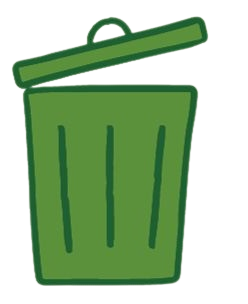
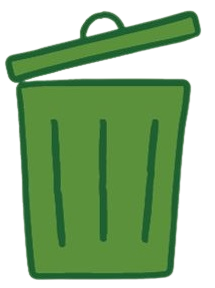
juego

diff --git a/Frontend/assets/js/juegotacho.js b/Frontend/assets/js/juegotacho.js
@@ -35,17 +35,22 @@ function preload(){
     this.load.image('colores', './Juegos/PNG/Environment/grass2.png');
     this.load.image('tacho','./Juegos/PNG/Environment/grass1.png');
     this.load.image('gameover', './Juegos/PNG/Environment/bg_layer3.png');
+    //tachos de basura
     this.load.image('tachoverde', './Juegos/PNG/Environment/tachoverde.png');
     this.load.image('tachorojo', './Juegos/PNG/Environment/tachorojo.png');
+    this.load.image('tachomarron', './Juegos/PNG/Environment/tachomarron.png');
+    this.load.image('tachonegro', './Juegos/PNG/Environment/tachonegro.png');
     this.load.image('tachoamarillo', './Juegos/PNG/Environment/tachoamarillo.png');
     this.load.image('tachonaranja', './Juegos/PNG/Environment/tachonaranja.png');
     this.load.image('tachoazul', './Juegos/PNG/Environment/tachoazul.png');
+    this.load.image('basetacho', './Juegos/PNG/Environment/basetacho.jpg');
+    //colores de tachos
     this.load.image('puntoazul', './Juegos/PNG/Environment/puntoazul.png');
-    this.load.image('puntonegro2', './Juegos/PNG/Environment/puntoamarillo.png');
+    this.load.image('puntoamarillo', './Juegos/PNG/Environment/puntoamarillo.png');
+    this.load.image('puntomarron', './Juegos/PNG/Environment/puntomarron.png');
     this.load.image('puntonegro', './Juegos/PNG/Environment/puntonegro.png');
     this.load.image('puntorojo', './Juegos/PNG/Environment/puntorojo.png');
     this.load.image('puntoverde', './Juegos/PNG/Environment/puntoverde.png');
-    this.load.image('basetacho', './Juegos/PNG/Environment/basetacho.jpg');
 }
 
 //2nd - the loaded content is set on the game scene.
@@ -58,14 +63,13 @@ function create(){
     this.add.image(240, 320,'background'); //BACKGROUND img loaded to scene
 
     //colors img loaded to scene by using '.add'
-    const green2= this.add.image(300,550, 'puntoverde').setScale(0.5); 
-    const green= this.add.image(350,550, 'puntoverde').setScale(0.5);
-    const black= this.add.image(400,550, 'puntonegro').setScale(0.5);
-    const black2= this.add.image(450,550, 'puntonegro2').setScale(0.5);
+    const black= this.add.image(300,550, 'puntonegro').setScale(0.5);
+    const brown= this.add.image(350,550, 'puntomarron').setScale(0.5); 
+    const green= this.add.image(400,550, 'puntoverde').setScale(0.5);
+    const yellow= this.add.image(450,550, 'puntoamarillo').setScale(0.5);
     const blue= this.add.image(500,550, 'puntoazul').setScale(0.5);
     const red= this.add.image(550,550, 'puntorojo').setScale(0.5);
 
-    
     //1 trashbin loaded to scene, add .physics so users can interact with the character using the keyboard.
     red.setInteractive({ useHandCursor:true }); //cambia el cursor al estar encima del color
     red.on("pointerup", ()=>{ //evento
@@ -96,7 +100,7 @@ function create(){
             this.tacho.destroy();
         }
         this.basetacho = this.physics.add.sprite(240, 490, 'basetacho').setImmovable();
-        this.tacho = this.physics.add.sprite(250, 450, 'tachoamarillo').setScale(0.5);
+        this.tacho = this.physics.add.sprite(250, 450, 'tachonegro').setScale(0.5);
     })
     blue.setInteractive({ useHandCursor:true });
     blue.on("pointerup", ()=>{
@@ -107,8 +111,17 @@ function create(){
         this.basetacho = this.physics.add.sprite(240, 490, 'basetacho').setImmovable();
         this.tacho = this.physics.add.sprite(250, 450, 'tachoazul').setScale(0.5);
     })
-    black2.setInteractive({ useHandCursor:true });
-    black2.on("pointerup", ()=>{
+    brown.setInteractive({ useHandCursor:true });
+    brown.on("pointerup", ()=>{
+        if (this.basetacho && this.tacho) {
+            this.basetacho.destroy();
+            this.tacho.destroy();
+        }
+        this.basetacho = this.physics.add.sprite(240, 490, 'basetacho').setImmovable();
+        this.tacho = this.physics.add.sprite(250, 450, 'tachomarron').setScale(0.5);
+    })
+    yellow.setInteractive({ useHandCursor:true });
+    yellow.on("pointerup", ()=>{
         if (this.basetacho && this.tacho) {
             this.basetacho.destroy();
             this.tacho.destroy();
@@ -116,50 +129,39 @@ function create(){
         this.basetacho = this.physics.add.sprite(240, 490, 'basetacho').setImmovable();
         this.tacho = this.physics.add.sprite(250, 450, 'tachoamarillo').setScale(0.5);
     })
-    green2.setInteractive({ useHandCursor:true });
-    green2.on("pointerup", ()=>{
-        if (this.basetacho && this.tacho) {
-            this.basetacho.destroy();
-            this.tacho.destroy();
-        }
-        this.basetacho = this.physics.add.sprite(240, 490, 'basetacho').setImmovable();
-        this.tacho = this.physics.add.sprite(250, 450, 'tachonaranja').setScale(0.5);
-    })
 
     //add '.physics' to the platform so the trash can be affected by gravity.
-    this.platform= this.physics.add.image(240,-1,'platform').setGravityY(300)//add gravity so the trash falls down.
+    /*this.platform= this.physics.add.image(240,-1,'platform').setGravityY(300)//add gravity so the trash falls down.
         .setScale(0.5);//reduce platform image half the size.
     this.platform2 = this.physics.add.image(500,-1,'platform').setGravityY(300)//add gravity so the trash falls down.
         .setScale(0.5);
-    
+    */
+
+    //add '.physics' to the platform so the trash can be affected by gravity.
+    // Creamos y configuramos los objetos que caen
+    for (let i = 0; i < 5; i++) {
+        const randomX = Phaser.Math.Between(100, 800); // Posición aleatoria en el eje X
+        this.platform= this.physics.add.image(randomX,-1,'platform').setGravityY(300).setScale(0.5);// Ajusta el nombre del objeto que desees usar
+        const randomSpeedY = Phaser.Math.Between(100, 300); // Velocidad vertical aleatoria
+        this.platform.setVelocity(0, randomSpeedY);
+    }
+
     this.add.text(50, 2, "Monedas ganadas", {
         fontSize:"24",
         fill: "black",
     });
-    /*
-    this.gameoverimg = this.add.image(240, 320, 'gameover');
-    this.gameoverimg.visible=false;*/
 
-    this.basetacho = this.physics.add.sprite(240, 490, 'basetacho').setImmovable();
+    this.basetacho = this.physics.add.sprite(250, 490, 'basetacho').setImmovable();
     this.tacho = this.physics.add.sprite(250, 450, 'tachoverde').setScale(0.5);
 
     //access to user´s keyboard
     this.cursors = this.input.keyboard.createCursorKeys();
 
     this.physics.add.collider(this.platform, this.basetacho);
-    this.physics.add.collider(this.platform2, this.basetacho);
 }
 
 function update(){ //loop
-
-    /* fin del juego 
-    if(this.platform.y>100){
-        this.gameoverimg.visible=true;
-        this.scene.pause();
-    }*/
-
     this.tacho.setVelocity(0) && this.basetacho.setVelocity(0);
-
     if (this.cursors.left.isDown)
     {
         this.tacho.setVelocityX(-300) && this.basetacho.setVelocityX(-300);
@@ -168,6 +170,5 @@ function update(){ //loop
     {
         this.tacho.setVelocityX(300) && this.basetacho.setVelocityX(300);
     };
-    
-
 }
+

diff --git a/Frontend/assets/js/index.js b/Frontend/assets/js/index.js
@@ -1,5 +1,155 @@
-import { GameOver } from "./gameover.js";
+//Declaro e inicializo la variable
+const config = {
+    //height and width of the game
+    width: 900,
+    height: 600,
+    //let Phaser decide to use Canvas or WebGl to render the game depending on the browser and the device.
+    type: Phaser.AUTO,
 
-const config ={
-    scene: [GameOver]
+    //creating a game scene
+    scene:{
+        //let us specify multimedia content to be loaded before starting the scene
+        preload: preload,
+        //is called once the assets from the scene have been loaded.
+        create: create,
+        update: update
+    },
+
+    //adding physics
+    physics:{
+        default:'arcade',
+        arcade: {
+            debug: true
+        }   
+    }
+}
+
+let game = new Phaser.Game(config);
+
+//1st - Load images, audio, videos so they can be used.
+function preload(){
+    //load background img
+    this.load.image('background','./Juegos/PNG/Background/bg_layer1.png');
+    //load platform img
+    this.load.image('platform', './Juegos/PNG/Environment/cactus.png');
+    this.load.image('colores', './Juegos/PNG/Environment/grass2.png');
+    this.load.image('tacho','./Juegos/PNG/Environment/grass1.png');
+    this.load.image('gameover', './Juegos/PNG/Environment/bg_layer3.png');
+    this.load.image('tachoverde', './Juegos/PNG/Environment/tachoverde.png');
+    this.load.image('tachorojo', './Juegos/PNG/Environment/tachorojo.png');
+    this.load.image('tachoamarillo', './Juegos/PNG/Environment/tachoamarillo.png');
+    this.load.image('tachonaranja', './Juegos/PNG/Environment/tachonaranja.png');
+    this.load.image('tachoazul', './Juegos/PNG/Environment/tachoazul.png');
+    this.load.image('puntoazul', './Juegos/PNG/Environment/puntoazul.png');
+    this.load.image('puntonegro2', './Juegos/PNG/Environment/puntoamarillo.png');
+    this.load.image('puntonegro', './Juegos/PNG/Environment/puntonegro.png');
+    this.load.image('puntorojo', './Juegos/PNG/Environment/puntorojo.png');
+    this.load.image('puntoverde', './Juegos/PNG/Environment/puntoverde.png');
+    this.load.image('basetacho', './Juegos/PNG/Environment/basetacho.jpg');
+}
+
+//2nd - the loaded content is set on the game scene.
+function create(){ 
+    
+    // x and y position, and key in preload()
+    this.add.image(240, 320,'background'); //BACKGROUND img loaded to scene
+
+    //colors img loaded to scene by using '.add'
+    const green2= this.add.image(300,550, 'puntoverde').setScale(0.5); 
+    const green= this.add.image(350,550, 'puntoverde').setScale(0.5);
+    const black= this.add.image(400,550, 'puntonegro').setScale(0.5);
+    const black2= this.add.image(450,550, 'puntonegro2').setScale(0.5);
+    const blue= this.add.image(500,550, 'puntoazul').setScale(0.5);
+    const red= this.add.image(550,550, 'puntorojo').setScale(0.5);
+
+    botonCoins.setInteractive({ useHandCursor: true });
+    
+    //1 trash can loaded to scene, add .physics so users can interact with the character using the keyboard.
+    red.setInteractive({ useHandCursor:true }); //cambia el cursor al estar encima del color
+    red.on("pointerup", ()=>{ //evento
+        // Verifica si ya existe un basurero en la escena y lo destruye.
+        if (this.basetacho && this.tacho) {
+            this.basetacho.destroy();
+            this.tacho.destroy();
+        }
+        //crea un nuevo basurero correspondiente al color seleccionado.
+        this.basetacho = this.physics.add.sprite(240, 490, 'basetacho').setImmovable();
+        this.tacho = this.physics.add.sprite(250, 450, 'tachorojo').setScale(0.5);
+        
+    });
+    green.setInteractive({ useHandCursor:true });
+    green.on("pointerup", ()=>{
+        // Verifica si ya existe un basurero en la escena y, en ese caso, destrúyelo.
+        if (this.basetacho && this.tacho) {
+            this.basetacho.destroy();
+            this.tacho.destroy();
+        }
+        this.basetacho = this.physics.add.sprite(240, 490, 'basetacho').setImmovable();
+        this.tacho = this.physics.add.sprite(250, 450, 'tachoverde').setScale(0.5);
+    });
+    black.setInteractive({ useHandCursor:true });
+    black.on("pointerup", ()=>{
+        if (this.basetacho && this.tacho) {
+            this.basetacho.destroy();
+            this.tacho.destroy();
+        }
+        this.basetacho = this.physics.add.sprite(240, 490, 'basetacho').setImmovable();
+        this.tacho = this.physics.add.sprite(250, 450, 'tachoamarillo').setScale(0.5);
+    });
+    blue.setInteractive({ useHandCursor:true });
+    blue.on("pointerup", ()=>{
+        if (this.basetacho && this.tacho) {
+            this.basetacho.destroy();
+            this.tacho.destroy();
+        }
+        this.basetacho = this.physics.add.sprite(240, 490, 'basetacho').setImmovable();
+        this.tacho = this.physics.add.sprite(250, 450, 'tachoazul').setScale(0.5);
+    });
+    black2.setInteractive({ useHandCursor:true });
+    black2.on("pointerup", ()=>{
+        if (this.basetacho && this.tacho) {
+            this.basetacho.destroy();
+            this.tacho.destroy();
+        }
+        this.basetacho = this.physics.add.sprite(240, 490, 'basetacho').setImmovable();
+        this.tacho = this.physics.add.sprite(250, 450, 'tachoamarillo').setScale(0.5);
+    });
+    green2.setInteractive({ useHandCursor:true });
+    green2.on("pointerup", ()=>{
+        if (this.basetacho && this.tacho) {
+            this.basetacho.destroy();
+            this.tacho.destroy();
+        }
+        this.basetacho = this.physics.add.sprite(240, 490, 'basetacho').setImmovable();
+        this.tacho = this.physics.add.sprite(250, 450, 'tachonaranja').setScale(0.5);
+    });
+
+    // Creamos y configuramos los objetos que caen
+    for (let i = 0; i < 5; i++) {
+        const randomX = Phaser.Math.Between(100, 800); // Posición aleatoria en el eje X
+        this.platform= this.physics.add.image(randomX,-1,'platform').setGravityY(300);// Ajusta el nombre del objeto que desees usar
+        const randomSpeedY = Phaser.Math.Between(100, 300); // Velocidad vertical aleatoria
+        this.platform.setVelocity(0, randomSpeedY);
+
+    }
+
+    this.basetacho = this.physics.add.sprite(240, 490, 'basetacho').setImmovable();
+    this.tacho = this.physics.add.sprite(250, 450, 'tachoverde').setScale(0.5);
+
+    //access to user´s keyboard
+    this.cursors = this.input.keyboard.createCursorKeys();
+
+    this.physics.add.collider(this.platform, this.basetacho);
+}
+
+function update(){ //loop
+    this.tacho.setVelocity(0) && this.basetacho.setVelocity(0);
+    if (this.cursors.left.isDown)
+    {
+        this.tacho.setVelocityX(-300) && this.basetacho.setVelocityX(-300);
+
+    }else if (this.cursors.right.isDown)
+    {
+        this.tacho.setVelocityX(300) && this.basetacho.setVelocityX(300);
+    };
 }
